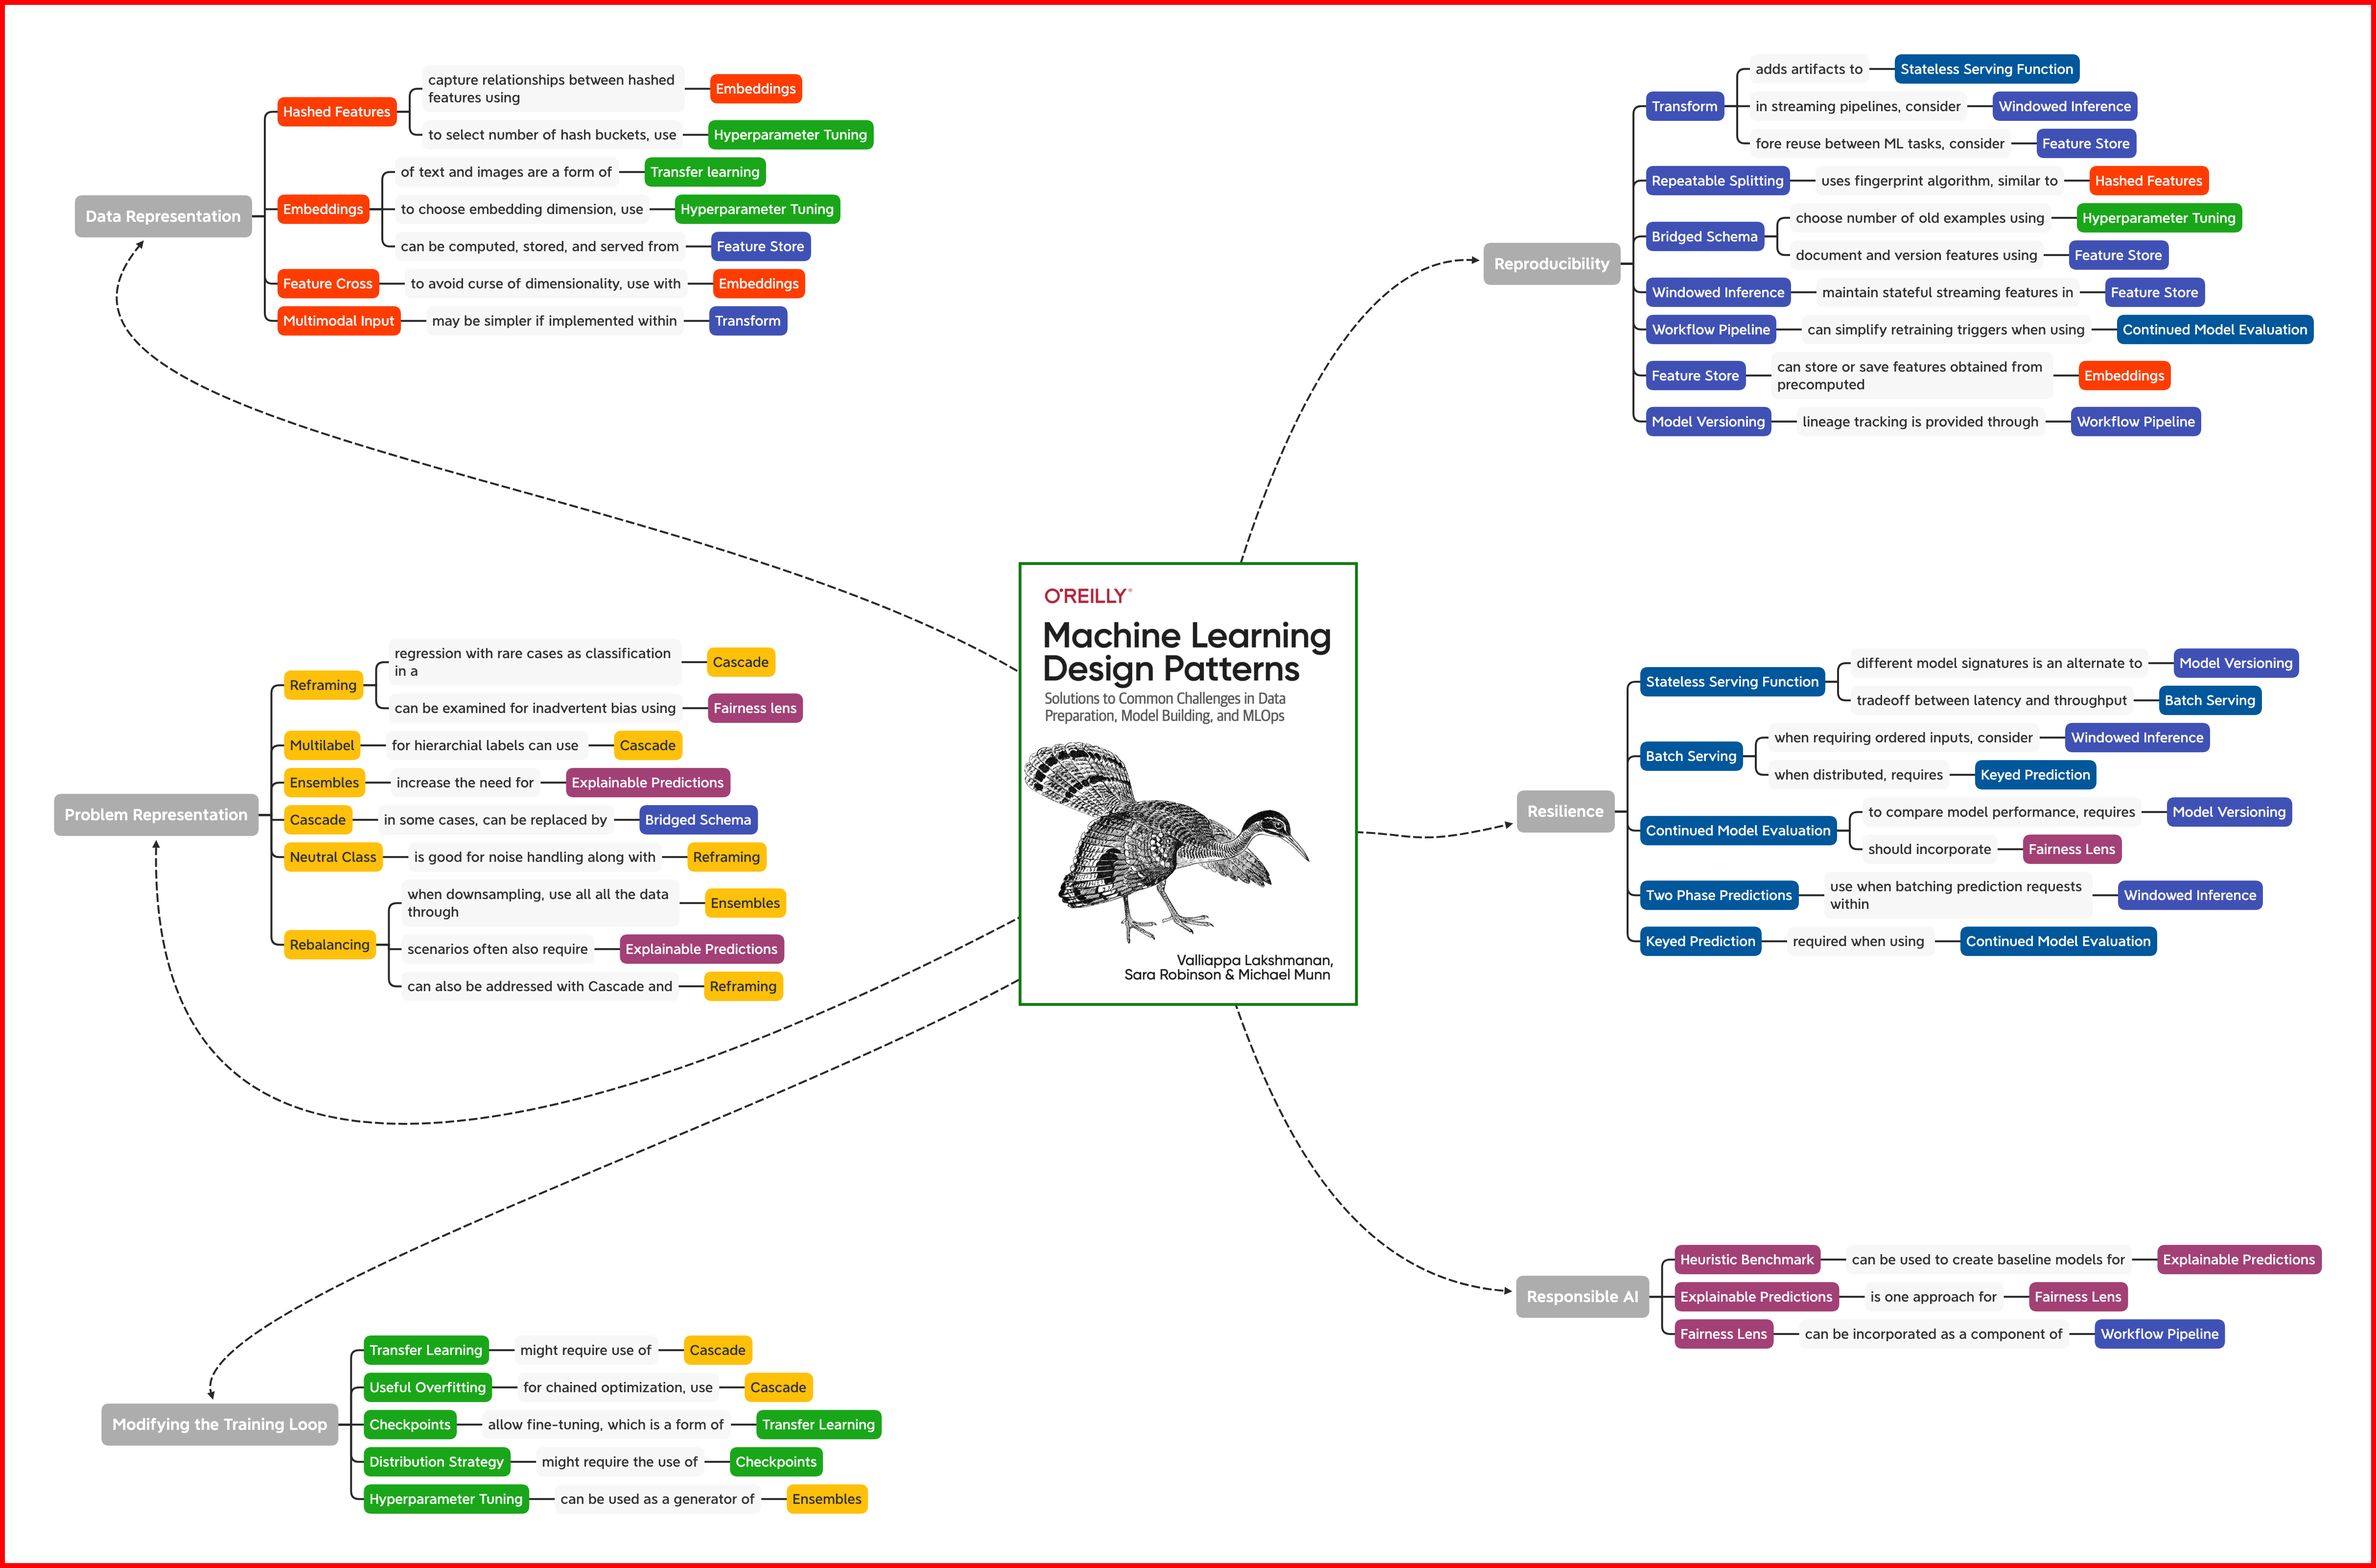
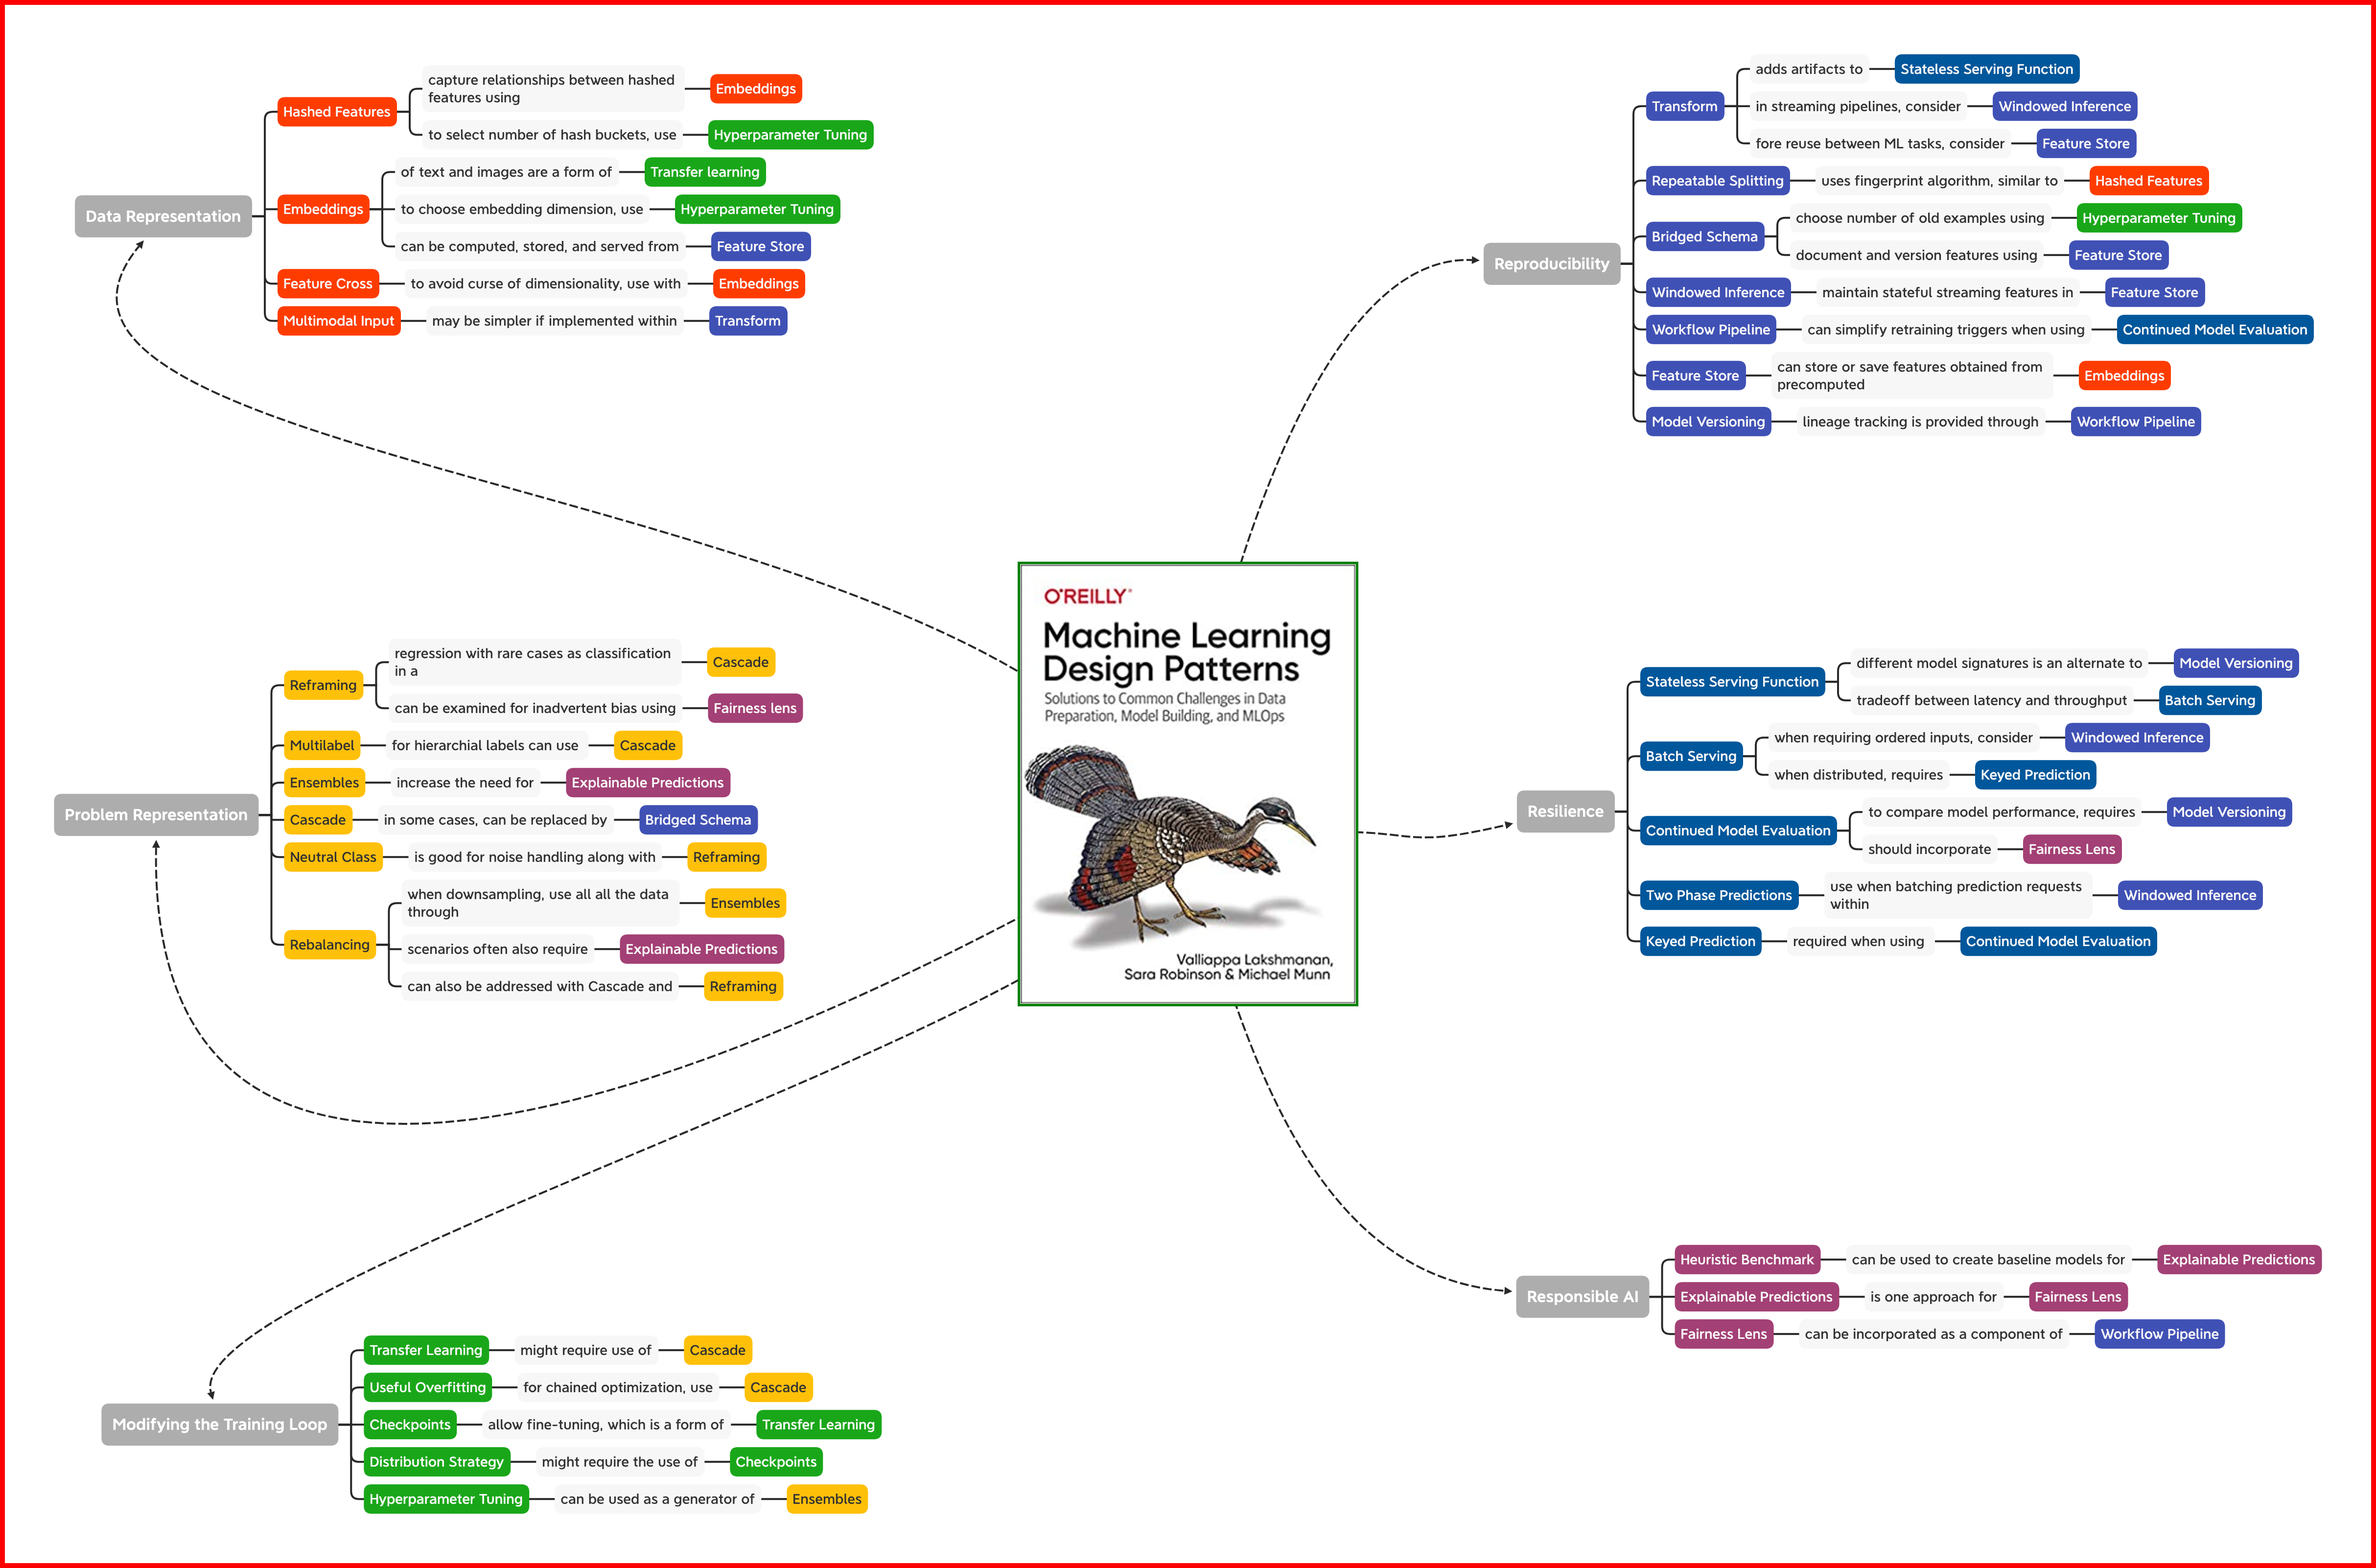
with color cover

Changed region(s): [[0.4355, 0.3748, 0.56, 0.6246]]

diff --git a/README.md b/README.md
@@ -5,7 +5,7 @@ Source code accompanying O'Reilly book:
 **Title**: Machine Learning Design Patterns
 **Authors**: Valliappa (Lak) Lakshmanan, Sara Robinson, Michael Munn
 
-<img src="mldp_cover.png" />
+<img src="mldp_cover.jpg" />
 
 We will update this repo with source code as we write each chapter. Stay tuned!
 
